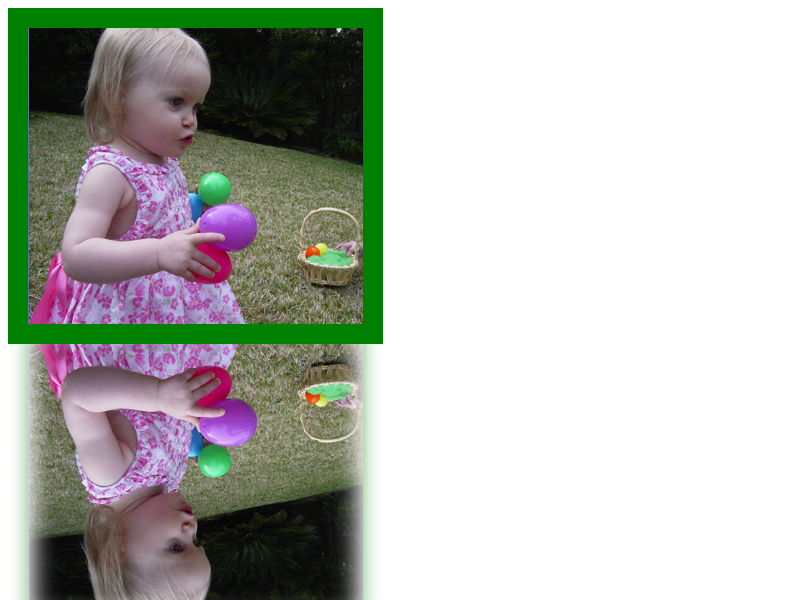
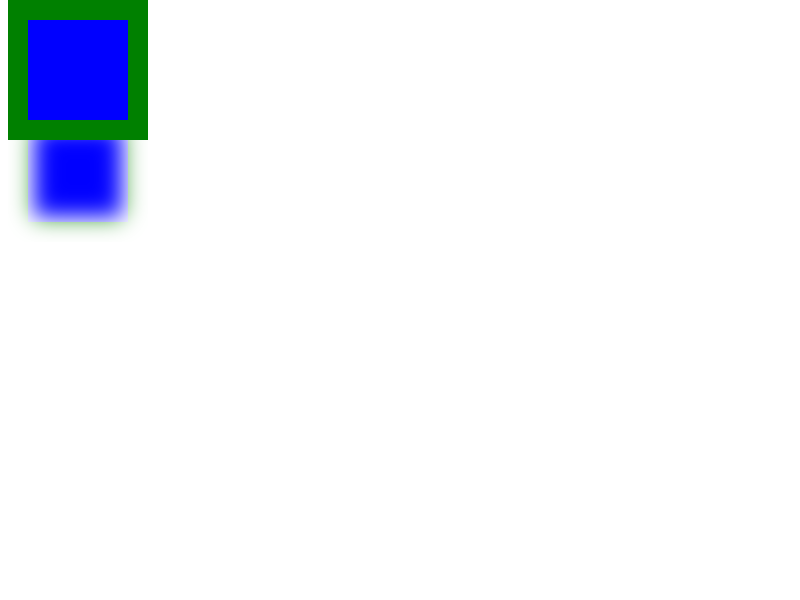
[PE] Update reference filters on box resize
Bug: 777259
Cq-Include-Trybots: master.tryserver.chromium.linux:linux_layout_tests_slimming_paint_v2
Commit-Queue: Xianzhu Wang <wangxianzhu@chromium.org>
Cr-Commit-Position: refs/heads/master@{#522178}

diff --git a/.upstream-WebKit/LayoutTests/fast/reflections/reflection-masks-outset.html b/.upstream-WebKit/LayoutTests/fast/reflections/reflection-masks-outset.html
@@ -1,15 +1,5 @@
 <!DOCTYPE html>
-<img id="target" src="resources/kate.png"
-    style="margin:20px; outline:20px solid green;
+<div id="target"
+    style="width: 100px; height: 100px; background: blue;
+           margin:20px; outline:20px solid green;
            -webkit-box-reflect: below 2px url(resources/vignette-mask.png) 75 / auto / 25px stretch">
-<script src="../../resources/run-after-layout-and-paint.js"></script>
-<script>
-if (window.testRunner)
-  testRunner.waitUntilDone();
-// Ensure the reflect mask image is loaded before ending the test.
-var imageLoader = new Image();
-imageLoader.onload = function() {
-  runAfterLayoutAndPaint(function() {}, true);
-};
-imageLoader.src = 'resources/vignette-mask.png';
-</script>

diff --git a/.upstream-WebKit/LayoutTests/paint/invalidation/reflection/reflection-resize.html b/.upstream-WebKit/LayoutTests/paint/invalidation/reflection/reflection-resize.html
@@ -1,0 +1,8 @@
+<!DOCTYPE html>
+<div id="target" style="width: 100px; height: 100px; -webkit-box-reflect: below 20px; background: green"></div>
+<script src="../../../resources/run-after-layout-and-paint.js"></script>
+<script>
+runAfterLayoutAndPaint(function() {
+  target.style.height = '150px';
+}, true);
+</script>

diff --git a/.upstream-WebKit/LayoutTests/paint/invalidation/reflection/reflection-resize-expected.html b/.upstream-WebKit/LayoutTests/paint/invalidation/reflection/reflection-resize-expected.html
@@ -1,0 +1,3 @@
+<!DOCTYPE html>
+<div style="width: 100px; height: 150px; background: green"></div>
+<div style="width: 100px; height: 150px; background: green; margin-top: 20px"></div>

diff --git a/.upstream-WebKit/Source/core/paint/PaintLayer.cpp b/.upstream-WebKit/Source/core/paint/PaintLayer.cpp
@@ -3224,14 +3224,14 @@ void PaintLayer::UpdateCompositorFilterOperationsForFilter(
     CompositorFilterOperations& operations) const {
   const auto& style = GetLayoutObject().StyleRef();
   float zoom = style.EffectiveZoom();
-  FloatRect reference_box = FilterReferenceBox(style.Filter(), zoom);
+  auto filter = FilterOperationsIncludingReflection();
+  FloatRect reference_box = FilterReferenceBox(filter, zoom);
   if (!operations.IsEmpty() && !filter_on_effect_node_dirty_ &&
       reference_box == operations.ReferenceBox())
     return;
 
-  operations =
-      FilterEffectBuilder(EnclosingNode(), reference_box, zoom)
-          .BuildFilterOperations(FilterOperationsIncludingReflection());
+  operations = FilterEffectBuilder(EnclosingNode(), reference_box, zoom)
+                   .BuildFilterOperations(filter);
 }
 
 CompositorFilterOperations

diff --git a/.upstream-WebKit/Source/core/paint/PaintPropertyTreeBuilder.cpp b/.upstream-WebKit/Source/core/paint/PaintPropertyTreeBuilder.cpp
@@ -1452,6 +1452,12 @@ static void SetNeedsPaintPropertyUpdateIfNeeded(const LayoutObject& object) {
       box.StyleRef().HasTransform() || NeedsPerspective(box) ||
       box_generates_property_nodes_for_mask_and_clip_path)
     box.GetMutableForPainting().SetNeedsPaintPropertyUpdate();
+
+  // The filter generated for reflection depends on box size.
+  if (box.HasReflection()) {
+    box.Layer()->SetFilterOnEffectNodeDirty();
+    box.GetMutableForPainting().SetNeedsPaintPropertyUpdate();
+  }
 }
 
 void FragmentPaintPropertyTreeBuilder::UpdateForObjectLocationAndSize(

diff --git a/.upstream-WebKit/Source/core/style/FilterOperations.cpp b/.upstream-WebKit/Source/core/style/FilterOperations.cpp
@@ -73,8 +73,9 @@ bool FilterOperations::CanInterpolateWith(const FilterOperations& other) const {
 }
 
 bool FilterOperations::HasReferenceFilter() const {
-  for (size_t i = 0; i < operations_.size(); ++i) {
-    if (operations_.at(i)->GetType() == FilterOperation::REFERENCE)
+  for (const auto& operation : operations_) {
+    if (operation->GetType() == FilterOperation::REFERENCE ||
+        operation->GetType() == FilterOperation::BOX_REFLECT)
       return true;
   }
   return false;
